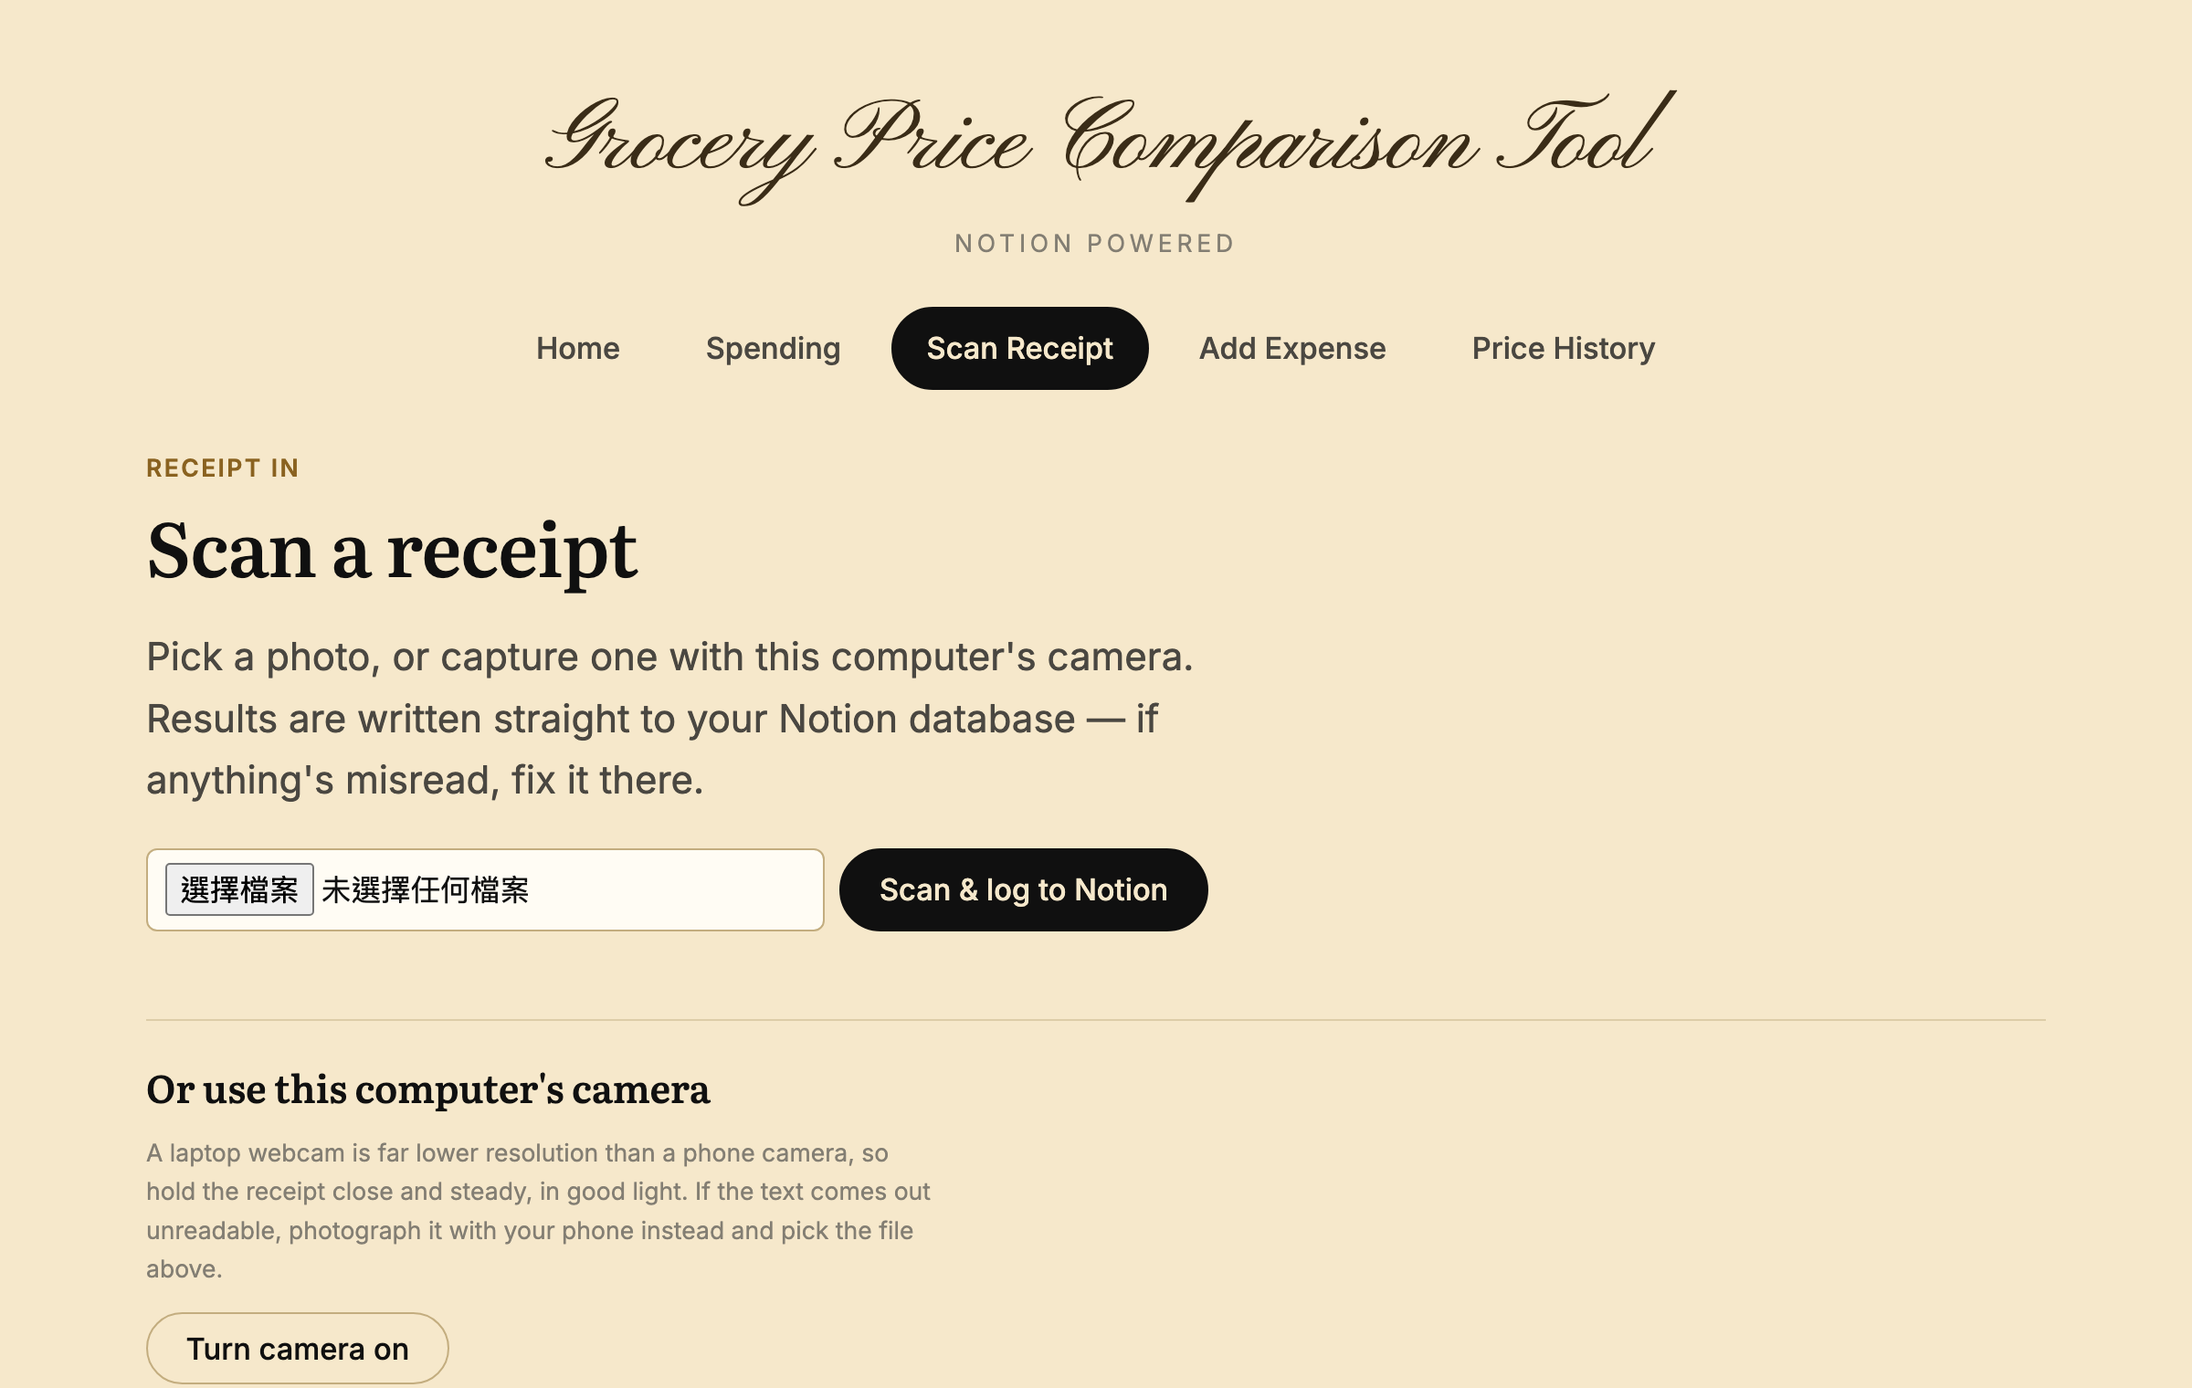
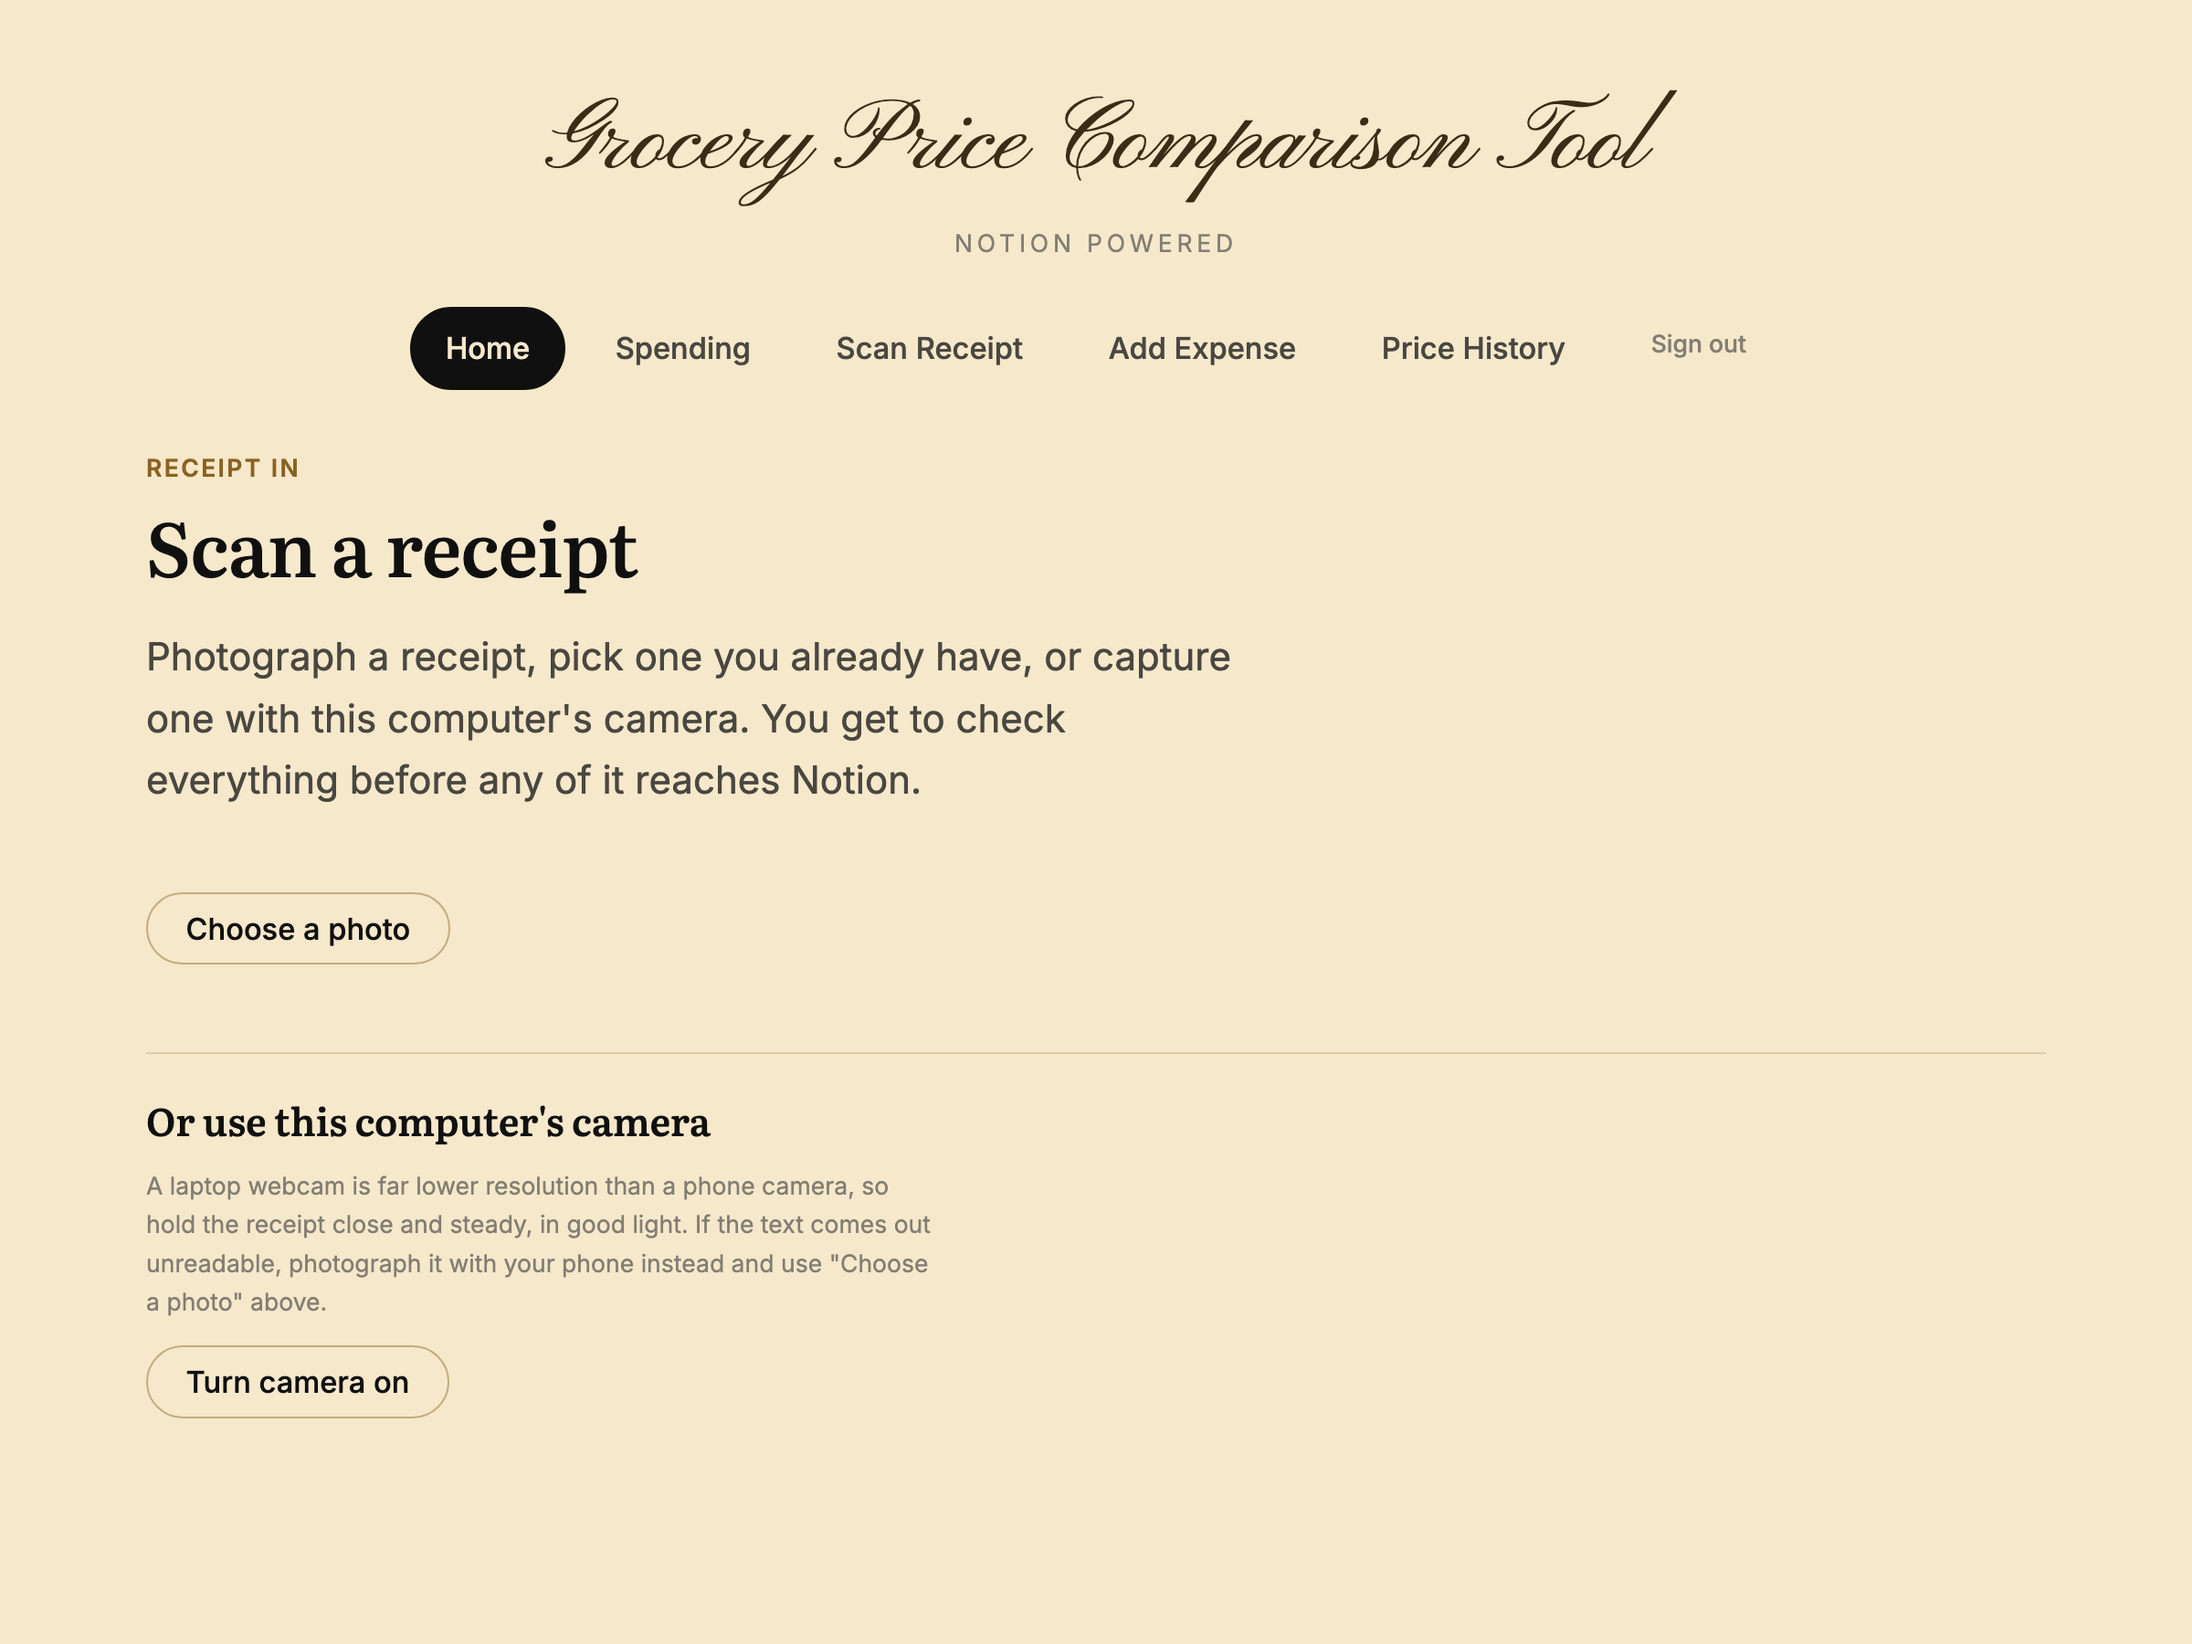
Offer both the camera and the photo library when scanning on a phone
The file input carried capture="environment" permanently, which does open
the camera straight away on a phone — but an input carrying it can no
longer reach the photo library or files at all, so a receipt photographed
earlier was unreachable from the phone.

Two buttons now drive the same input, setting capture for one and clearing
it for the other. Picking a photo submits on its own, since choosing the
photo was the whole decision. "Take a photo" is shown only where a coarse
pointer says there is a camera behind the browser — on a desktop that
attribute is ignored and it would just be a second file dialog, and the
webcam panel below already covers that case.

The plain input and submit stay in the markup and are swapped out by the
script, so the page still works with no JavaScript.

Also fixes a trap that made the swap visibly fail: the browser hides
[hidden] with its own display rule, which any display we set here outranks
— an author sheet beats the user-agent one whatever the specificity. The
submit button and the flex container both ignored "hidden" until now.

diff --git a/groceryapp/templates/upload.html b/groceryapp/templates/upload.html
@@ -3,25 +3,33 @@
 {% block content %}
   <p class="eyebrow">Receipt in</p>
   <h1>Scan a receipt</h1>
-  <p class="lede">Pick a photo, or capture one with this computer's camera.
-     Results are written straight to your Notion database — if anything's
-     misread, fix it there.</p>
+  <p class="lede">Photograph a receipt, pick one you already have, or capture
+     one with this computer's camera. You get to check everything before any
+     of it reaches Notion.</p>
 
   {% if error %}<p class="error">{{ error }}</p>{% endif %}
 
   <form method="post" enctype="multipart/form-data" id="upload-form"
         class="search-form">
-    <input type="file" name="photo" id="photo-input" accept="image/*"
-           capture="environment" required>
-    <button type="submit">Scan &amp; log to Notion</button>
+    {# No "capture" attribute here. It is added only by the Take a photo
+       button below, because setting it up front means a phone can *only*
+       take a new photo — the library and files stop being reachable. #}
+    <input type="file" name="photo" id="photo-input" accept="image/*" required>
+    <button type="submit" id="submit-button">Scan &amp; log to Notion</button>
   </form>
+
+  {# Replaces the plain input above once JS confirms it can drive it. #}
+  <div id="pick-actions" class="form-actions" hidden>
+    <button type="button" id="take-photo" class="camera-only">Take a photo</button>
+    <button type="button" id="choose-photo" class="secondary">Choose a photo</button>
+  </div>
 
   <section class="camera-panel">
     <h2>Or use this computer's camera</h2>
     <p class="hint">A laptop webcam is far lower resolution than a phone
        camera, so hold the receipt close and steady, in good light. If the
        text comes out unreadable, photograph it with your phone instead and
-       pick the file above.</p>
+       use "Choose a photo" above.</p>
 
     <button type="button" id="camera-start" class="secondary">Turn camera on</button>
 
@@ -44,6 +52,11 @@
       var fileInput = document.getElementById("photo-input");
       var processing = document.getElementById("processing");
 
+      var pickActions = document.getElementById("pick-actions");
+      var takePhoto = document.getElementById("take-photo");
+      var choosePhoto = document.getElementById("choose-photo");
+      var submitButton = document.getElementById("submit-button");
+
       var startButton = document.getElementById("camera-start");
       var stopButton = document.getElementById("camera-stop");
       var captureButton = document.getElementById("camera-capture");
@@ -55,6 +68,37 @@
 
       form.addEventListener("submit", function () {
         processing.hidden = false;
+      });
+
+      // Two ways into the same input. "capture" is set only for the camera
+      // button and cleared for the other, since an input carrying it can no
+      // longer reach the photo library at all.
+      //
+      // The plain input stays in the markup and is only swapped out here, so
+      // without JS the page is still a working file field and a submit.
+      pickActions.hidden = false;
+      fileInput.hidden = true;
+      submitButton.hidden = true;
+
+      function pick(useCamera) {
+        if (useCamera) {
+          fileInput.setAttribute("capture", "environment");
+        } else {
+          fileInput.removeAttribute("capture");
+        }
+        fileInput.click();
+      }
+
+      takePhoto.addEventListener("click", function () { pick(true); });
+      choosePhoto.addEventListener("click", function () { pick(false); });
+
+      // Picking a photo is the whole decision — no reason to make someone
+      // press a second button afterwards.
+      fileInput.addEventListener("change", function () {
+        if (fileInput.files && fileInput.files.length) {
+          processing.hidden = false;
+          form.submit();
+        }
       });
 
       function fail(message) {

diff --git a/groceryapp/static/css/style.css b/groceryapp/static/css/style.css
@@ -53,6 +53,12 @@
 
 * { box-sizing: border-box; }
 
+/* The browser hides [hidden] with its own "display: none", which any display
+   rule written here outranks — an author sheet beats the user-agent one
+   whatever the specificity. Without this, "hidden" silently does nothing to
+   a button or a flex container, which is most of the ones we toggle. */
+[hidden] { display: none !important; }
+
 body {
   margin: 0;
   background: var(--paper);
@@ -389,6 +395,17 @@ button.danger { background: var(--danger); border-color: var(--danger); }
   align-items: center;
   gap: var(--space-3);
   margin-top: var(--space-5);
+}
+
+/* "Take a photo" works by asking the file input for the camera, which only a
+   device with a camera behind the browser honours — on a desktop the same
+   attribute is ignored and you get the file dialog, which the button beside
+   it already does. A coarse pointer is the closest honest test for "this is
+   a phone or tablet"; the desktop keeps the webcam panel further down. */
+.camera-only { display: none; }
+
+@media (pointer: coarse) {
+  .camera-only { display: inline-block; }
 }
 
 input, select {
